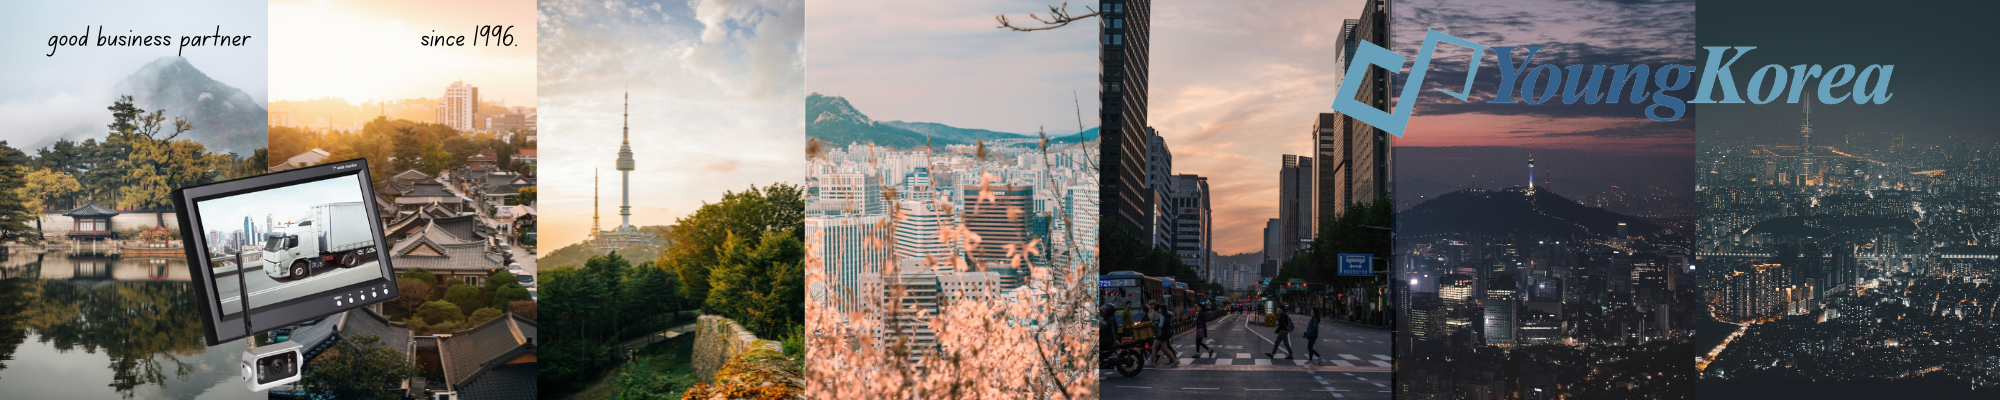
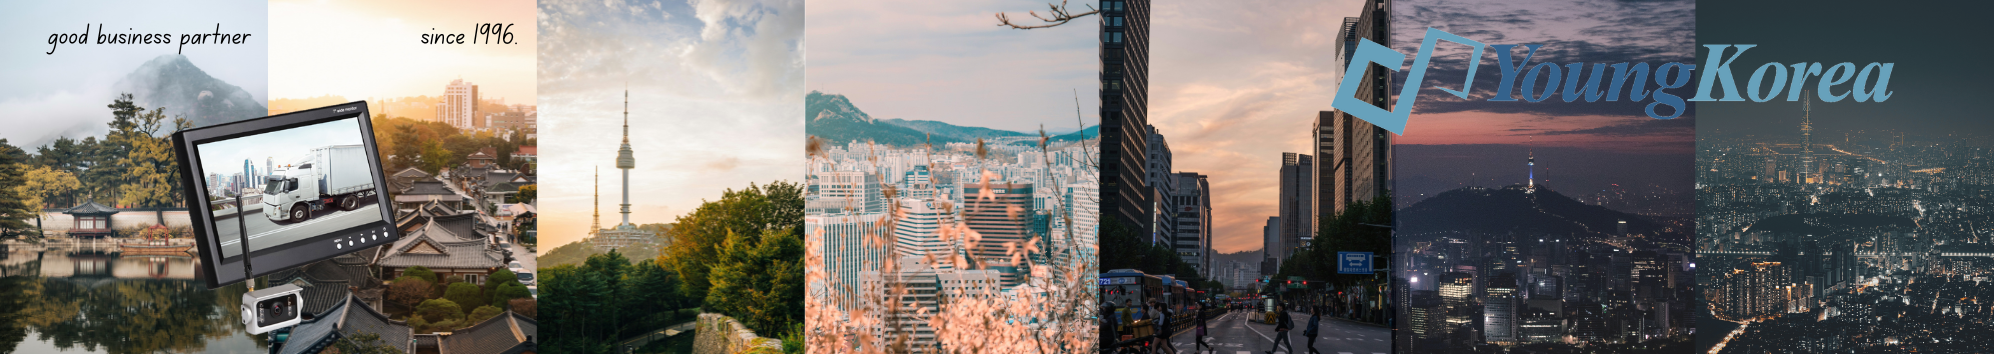
footer pic edit

diff --git a/index.html b/index.html
@@ -5,8 +5,8 @@
     <meta name="viewport" content="width=device-width, initial-scale=1.0">
     <title>Home - YoungKorea | 영코리아</title>
 
-    <meta name="description" content="YoungKorea (영코리아)는 차량용 모니터, 블랙박스, 카메라 등 첨단 자동차 전자제품을 연구, 개발, 제조하는 전문 기업입니다. Leading manufacturer of in-vehicle displays, cameras, and black boxes.">
-    <meta name="keywords" content="영코리아, YoungKorea, 차량용 모니터, automotive display, 블랙박스, dashcam, rearview mirror, room mirror, back mirror, camera, automotive camera, 자동차 카메라, 자동차 전자제품, OBM, OEM, ODM">
+    <meta name="description" content="YoungKorea, 영코리아는 차량용, 트럭, truck, agricultural machinery, 농기계, 버스, bus, 대형승합차, 세단, SUV, van, 모니터, 블랙박스, 카메라 등 첨단 자동차 전자제품을 연구, 개발, 제조하는 전문 기업입니다. Leading manufacturer of in-vehicle displays, cameras, and black boxes.">
+    <meta name="keywords" content="영코리아, YoungKorea, 차량용 모니터, automotive display, 트럭, truck, agricultural machinery, 농기계, 버스, bus, 대형승합차, 세단, SUV, van, 블랙박스, dashcam, rearview mirror, room mirror, back mirror, camera, automotive camera, 자동차 카메라, 자동차 전자제품, OBM, OEM, ODM">
     <meta property="og:title" content="YoungKorea | 영코리아(주)">
     <meta property="og:description" content="YoungKorea (영코리아)는 차량용 모니터, 블랙박스, 카메라 등 첨단 자동차 전자제품의 연구·개발·제조를 전문으로 합니다.">
     <meta property="og:site_name" content="YoungKorea | 영코리아(주)">
